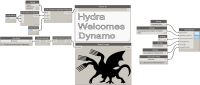
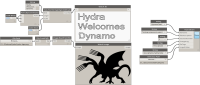
Testing component dictionary

Changed region(s): [[0.66, 0.3059, 0.87, 0.4], [0.18, 0.0941, 0.39, 0.3059], [0.33, 0.1647, 0.36, 0.2588]]

diff --git a/DynamoTest1/README.md b/DynamoTest1/README.md
@@ -1,6 +1,6 @@
 ### Description
-Testing Dynamo export to Hydra repo.
+Testing component export
 ### Version
-File Version: 1
+File Version: 2
 ### Tags
-test, dynamo, hydra, beta
+test,dynamo,hydra,beta
